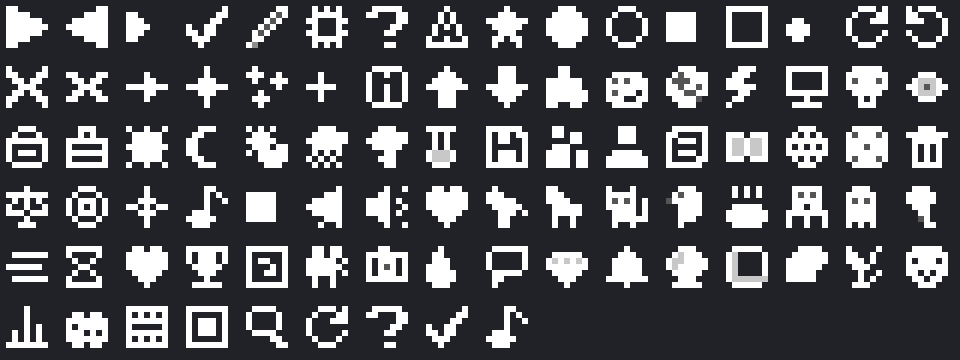
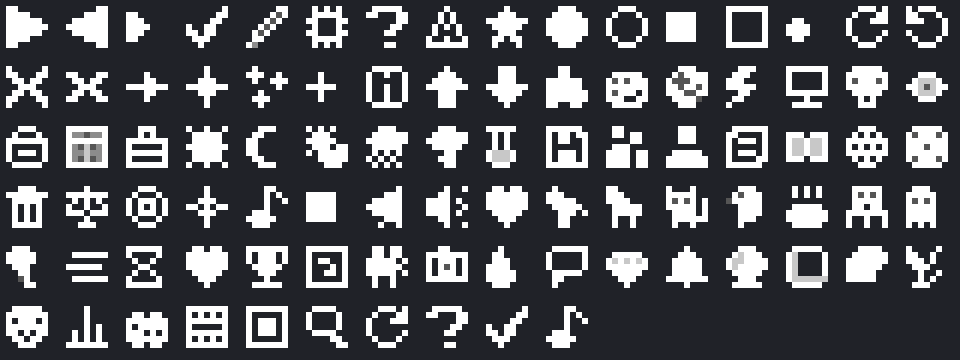
Publish Camera 1.3.0, GlassFrame 2.8.3, ServerUI 1.12.0, ThemeCalm 1.0.0, ThemeHorror 2.3.2, ThemeLab 1.0.0

diff --git a/serverui/build.py b/serverui/build.py
@@ -75,7 +75,7 @@ import zipfile
 import zlib
 
 NAME = "ServerUI"
-VERSION = "1.11.0"         # bumped with ../bump.py, never by hand
+VERSION = "1.12.0"         # bumped with ../bump.py, never by hand
 HERE = pathlib.Path(__file__).parent
 SRC = HERE / "src"
 DIST = HERE / "dist"
@@ -332,6 +332,13 @@ ART = {
            "#.###.#",
            "#.....#",
            ".#####."],
+    "📦": ["#######",
+          "#--=--#",
+          "#######",
+          "#-=+=-#",
+          "#--+--#",
+          "#-=+=-#",
+          "#######"],
     "🧰": ["..###..",
            "..#.#..",
            "#######",

diff --git a/README.md b/README.md
@@ -9,7 +9,7 @@ pack.
 |---|---|---|
 | [GlassFrame](glassframe/) | Glass with no borders at all, blocks and panes, so a window or floor reads as one clean sheet. Pairs with a plugin that draws the outline back only where the glass actually stops. | [`GlassFrame-2.8.3-borderless.zip`](glassframe/GlassFrame-2.8.3-borderless.zip) |
 | [Camera](camera/) | The Camera plugin's camera as a cute instant camera - empty, loaded, flashing - and its photos as polaroids tinted with each picture's own colour. Repaints two vanilla item definitions only where the plugin sets `custom_model_data`; real compasses and maps are untouched. | [`Camera-1.3.0.zip`](camera/Camera-1.3.0.zip) |
-| [ServerUI](serverui/) | Pixel icons at the emoji code points the server's dialog menus use, drawn into the default font. Without the pack the menus show the same symbols in Unifont. | [`ServerUI-1.11.0.zip`](serverui/ServerUI-1.11.0.zip) |
+| [ServerUI](serverui/) | Pixel icons at the emoji code points the server's dialog menus use, drawn into the default font. Without the pack the menus show the same symbols in Unifont. | [`ServerUI-1.12.0.zip`](serverui/ServerUI-1.12.0.zip) |
 | [ThemeCalm](themecalm/) | Theme layer for the main server: warm gold hotbar frame, warmer sun, a soft chime on every menu click. | [`ThemeCalm-1.0.0.zip`](themecalm/ThemeCalm-1.0.0.zip) |
 | [ThemeLab](themelab/) | Theme layer for the test server: teal hearts, cyan experience bar and hotbar frame, a digital blip on every menu click. | [`ThemeLab-1.0.0.zip`](themelab/ThemeLab-1.0.0.zip) |
 | [ThemeHorror](themehorror/) | The Haunt plugin's companion layer, loaded all the time and painting only player states: dripping blood hearts, raw drumsticks and blood veins over the screen during its events, a blood moon while the director is armed. | [`ThemeHorror-2.3.2.zip`](themehorror/ThemeHorror-2.3.2.zip) |

diff --git a/serverui/README.md b/serverui/README.md
@@ -3,7 +3,7 @@
 Pixel icons for a Paper server's dialog menus, for Minecraft Java 26.2+, needing
 **no mods**. 2 KB.
 
-Download: [`ServerUI-1.11.0.zip`](ServerUI-1.11.0.zip)
+Download: [`ServerUI-1.12.0.zip`](ServerUI-1.12.0.zip)
 
 ## What it does
 

diff --git a/CHANGELOG.md b/CHANGELOG.md
@@ -2,6 +2,10 @@
 
 One entry per published version, newest first.
 
+## ServerUI 1.12.0
+
+📦 as an icon, for the shelf that gathers every plugin's custom items
+
 ## ServerUI 1.11.0
 
 ◀ as an icon, for a paged item shelf
